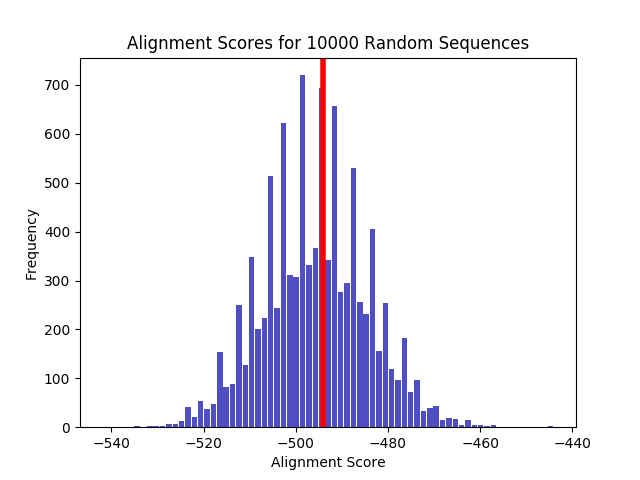
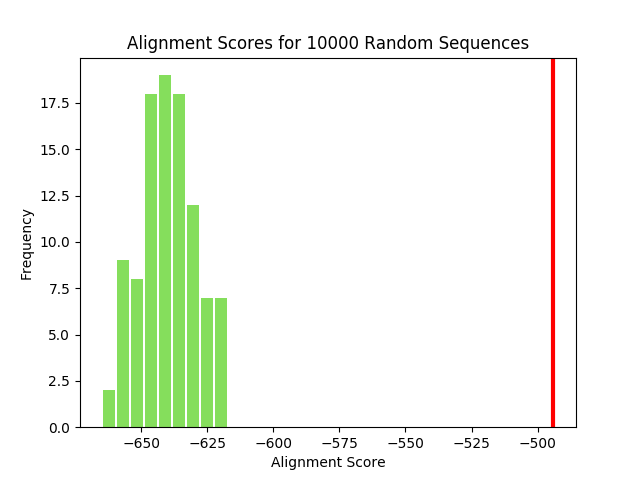
_

diff --git a/main.py b/main.py
@@ -80,7 +80,7 @@ if __name__ == '__main__':
     idx = 1
     Q_ = list(Q)
     R_ = list(R)
-    for i in range(1000):
+    for i in range(100):
         print(idx)
         idx+=1
         Q_ = np.random.permutation(Q_)
@@ -110,7 +110,7 @@ if __name__ == '__main__':
     # Plotting
     
     n, bins, patches = plt.hist(x= scores_random_sequences, bins='auto', 
-                                color='#0504aa', alpha=0.7, rwidth=0.85)
+                                color='#52D017', alpha=0.7, rwidth=0.85) # Yellow Green 
     
     plt.axvline(x = score, linewidth = 3, color = 'r')
     
